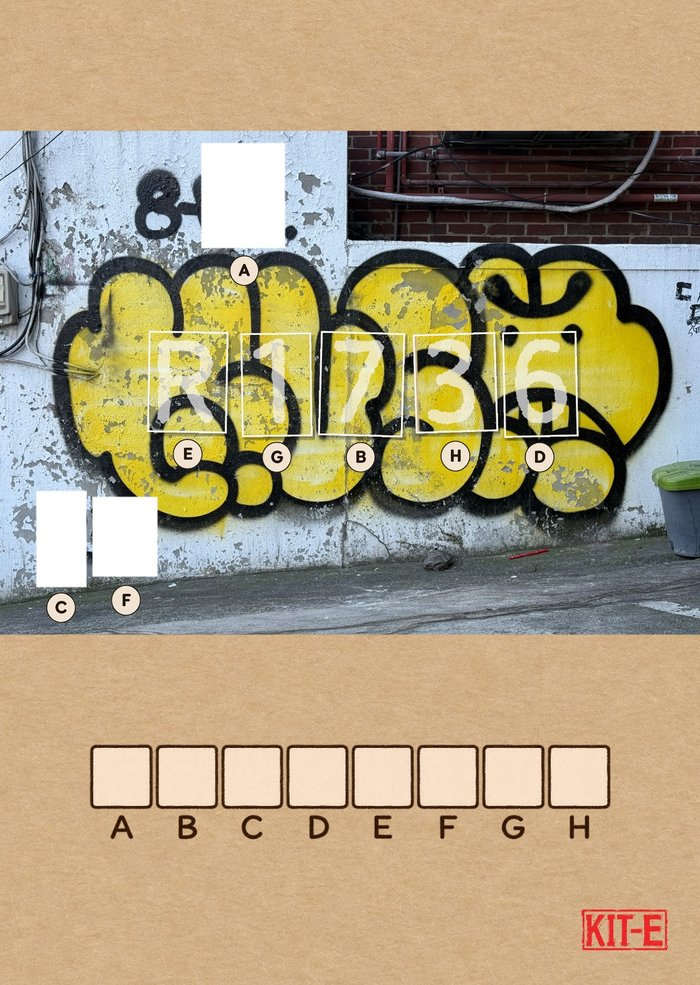
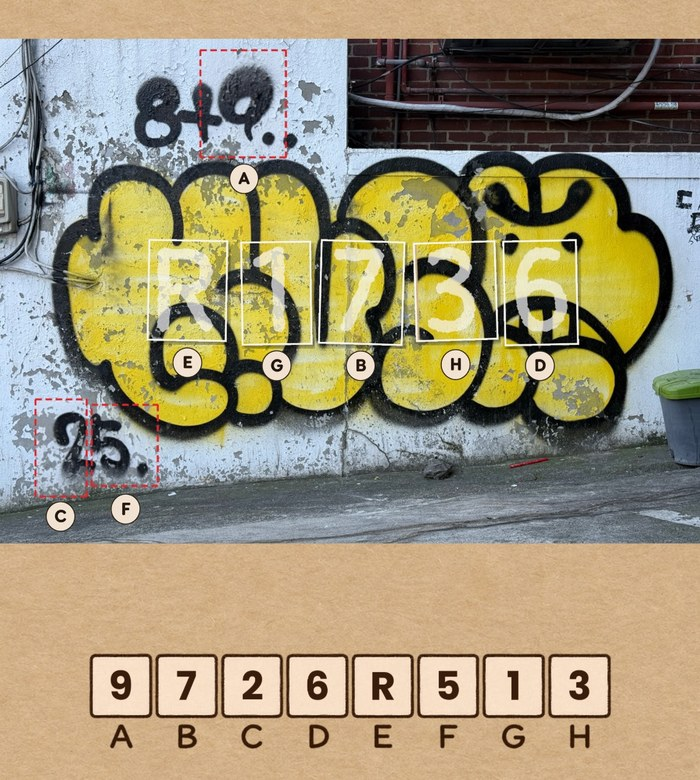
FILE_08/09/10 수정: 도어락 버튼 축소, 돋보기 원 색상 강화, FILE_10 해설 이미지 교체
- FILE_08: 도어락 소리 버튼 너비 220px -> 140px
- FILE_09: 카페 사진 중앙 돋보기 원을 금색+흰테두리로 바꿔 눈에 띄게
- FILE_10: 해설 이미지를 사용자 제공 A-H 매핑 참조 사진으로 교체

Claude-Session: https://claude.ai/code/session_01JNSv2zALJDpwVya8qsmDtn

diff --git a/index.html b/index.html
@@ -945,7 +945,7 @@ body{font-family:'Share Tech Mono',monospace;background:#0a0a0a;color:#c8c8c0;mi
 #s7 .script-line.sfx:hover{background:rgba(74,158,255,0.28);}
 #s7 .script-line.sfx:active{transform:scale(0.93);}
 #s7 .script-line.sfx.img-btn{
-  display:block;width:220px;aspect-ratio:700/137;
+  display:block;width:140px;aspect-ratio:700/137;
   background:url('assets/doorlock_sound_btn.webp') center/100% 100% no-repeat;
   border:none;color:transparent;padding:0;margin:4px 0;
 }
@@ -1816,7 +1816,7 @@ const files = [
    content:`<div class="detail-section"><div class="detail-section-title">▶ 사건 일지 — 2025. 07. 10</div><div>주변을 살피던 중 카페 하나가 눈에 들어왔다.<br>창가에 같은 복장에 마스크를 쓴 무리들.<br>사진을 찍어 확대해보니 — 왼쪽 어깨에 동일한 마크가 찍혀있다.<br><br>저놈들이다.<br><br><span style="background:rgba(255,221,0,0.4);padding:0 2px;border-radius:2px;">카페 폴브</span> 근처 <span style="background:rgba(255,221,0,0.4);padding:0 2px;border-radius:2px;">가로등</span>에 같은 <span style="background:rgba(255,221,0,0.4);padding:0 2px;border-radius:2px;">마크</span>가 붙어 있다.<br><span style="background:rgba(255,221,0,0.4);padding:0 2px;border-radius:2px;">현장분석 카메라</span>로 확인해봐야겠다.</div></div>
    <div style="position:relative;">
     <img class="detail-photo" style="margin:10px 0 0;" src="assets/file09_cafe.jpg" alt="카페 파파라치 사진" onclick="openPhotoZoom('assets/file09_cafe.jpg')">
-    <div style="position:absolute;left:50%;top:50%;transform:translate(-50%,-50%);width:52px;height:52px;border-radius:50%;background:rgba(20,15,10,0.55);display:flex;align-items:center;justify-content:center;font-size:24px;pointer-events:none;box-shadow:0 2px 8px rgba(0,0,0,0.4);">🔍</div>
+    <div style="position:absolute;left:50%;top:50%;transform:translate(-50%,-50%);width:52px;height:52px;border-radius:50%;background:rgba(200,160,40,0.85);border:2px solid #fff6e0;display:flex;align-items:center;justify-content:center;font-size:24px;pointer-events:none;box-shadow:0 2px 10px rgba(0,0,0,0.5);">🔍</div>
    </div>`,
    hints:['카페 폴브 연남점을 찾아가 사진에 표시된 가로등을 확인하세요.','현장 분석 카메라(<img src="assets/camera_emoticon.webp" style="width:16px;height:16px;vertical-align:middle;border-radius:50%;">)를 켜서 가로등에 있는 마크를 스캔하세요.<br><button onclick="openPhotoZoom(\'assets/file09_explain1.png\')" style="margin-top:6px;background:#3a2a10;border:1px solid #8a6a20;color:#e8d8b0;font-size:11px;padding:5px 10px;border-radius:3px;cursor:pointer;"><img src="assets/camera_emoticon.webp" style="width:14px;height:14px;vertical-align:middle;border-radius:50%;margin-right:3px;">카메라 인식 불가 시 확인</button>'],
    answerText:`<div style="display:flex;align-items:center;gap:8px;margin-bottom:8px;">
